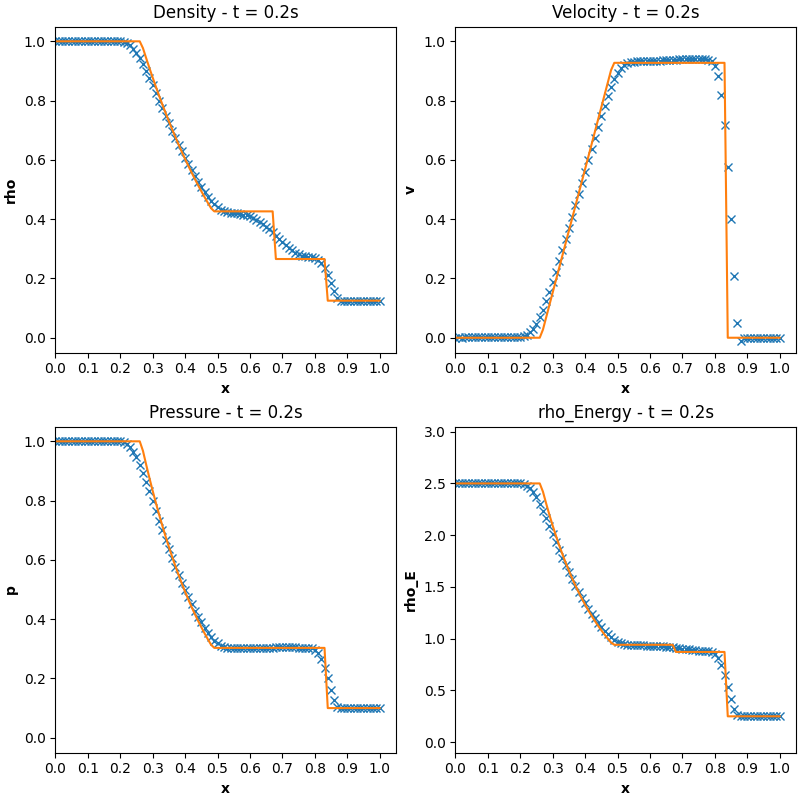
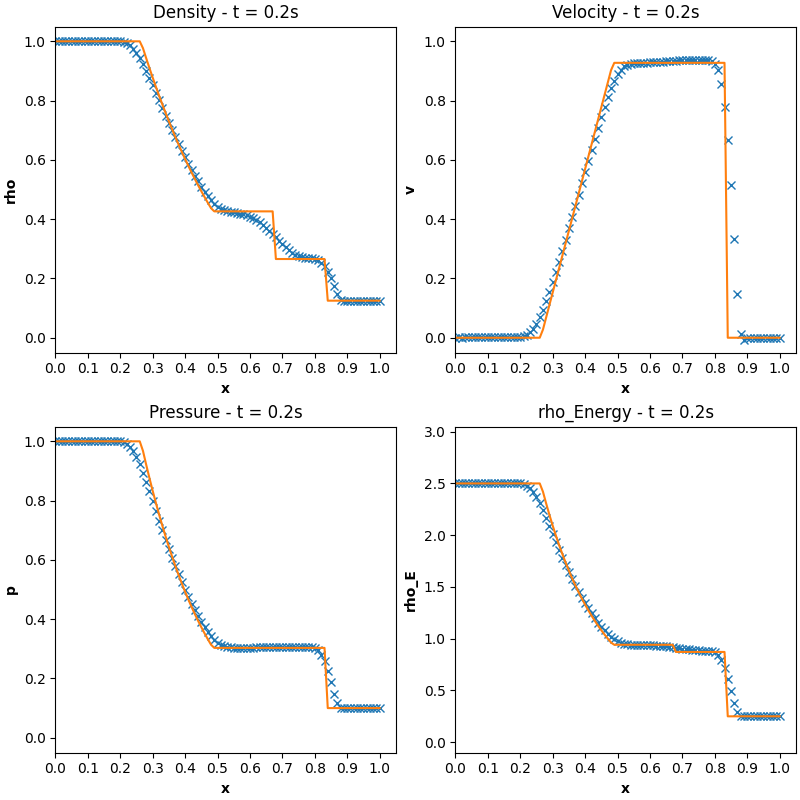
fixed bug in F_visc

diff --git a/functions.py b/functions.py
@@ -467,8 +467,8 @@ def assemble_TG_two_step_EV(U_current, numel, xnode, N_mef, Nxi_mef, wpg, gamma,
     M_m[-1, -1] = 1
     M_rho_E[-1, -1] = 1  
 
-
-    viscosity_e = np.abs((h**2 * entropy_res)/np.abs((np.max(entropy)-np.min(entropy))))
+    c_e = 1
+    viscosity_e = c_e * np.abs((h**2 * entropy_res)/np.abs((np.max(entropy)-np.min(entropy))))
 
     ## Building F_viscosity matrix
     F_visc_rho = np.zeros(numnp)
@@ -512,18 +512,13 @@ def assemble_TG_two_step_EV(U_current, numel, xnode, N_mef, Nxi_mef, wpg, gamma,
             kinematic_visc_gp = np.dot(N, kinematic_visc_el)
             u_gpx = np.dot(Nx, u_el)
 
-            # u_gp = np.dot(Nx, u_el)
+            u_gp = np.dot(N, u_el)
             kappa_gp = np.dot(N, kappa_el)
             temp_gpx = np.dot(Nx, temp_el)
 
-            nabla_u_dot_u_gp = np.dot(u_gpx, u_el)
-
-
             F_visc_rho[isp] +=   - w_ig * (Nx * kinematic_visc_gp * rho_gpx)
             F_visc_m[isp] +=  - w_ig * (Nx * viscosity_gp * u_gpx)
-            F_visc_rho_E[isp] += - w_ig * Nx * ((viscosity_gp * nabla_u_dot_u_gp + kappa_gp * temp_gpx))
-
-            # F_visc_rho_E[isp] += - w_ig * Nx * ((viscosity_gp * u_gpx * u_gp + kappa_gp * temp_gpx))
+            F_visc_rho_E[isp] += - w_ig * Nx * ((viscosity_gp * u_gpx * u_gp + kappa_gp * temp_gpx))
 
             # F_visc_rho[isp] +=   - w_ig * (Nx * viscosity_gp * rho_gpx)
             # F_visc_m[isp] +=   - w_ig * (Nx * viscosity_gp * m_gpx)
